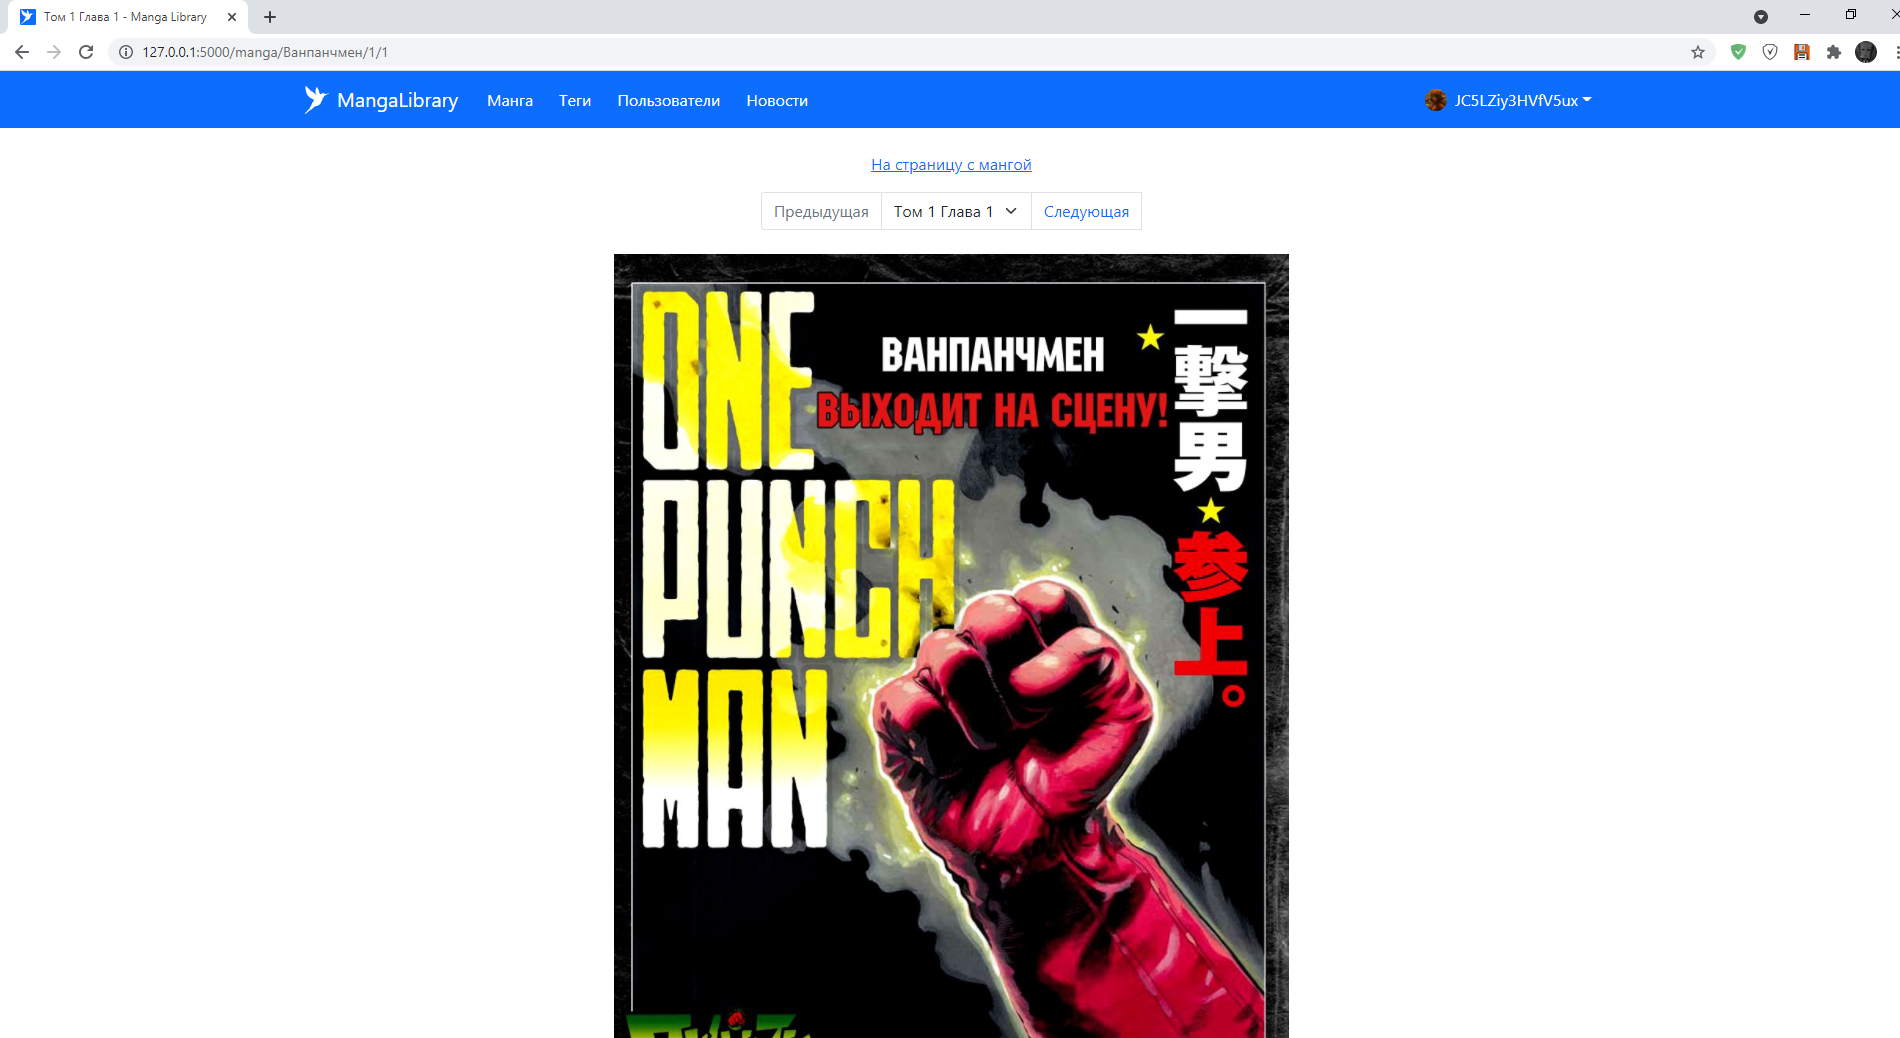
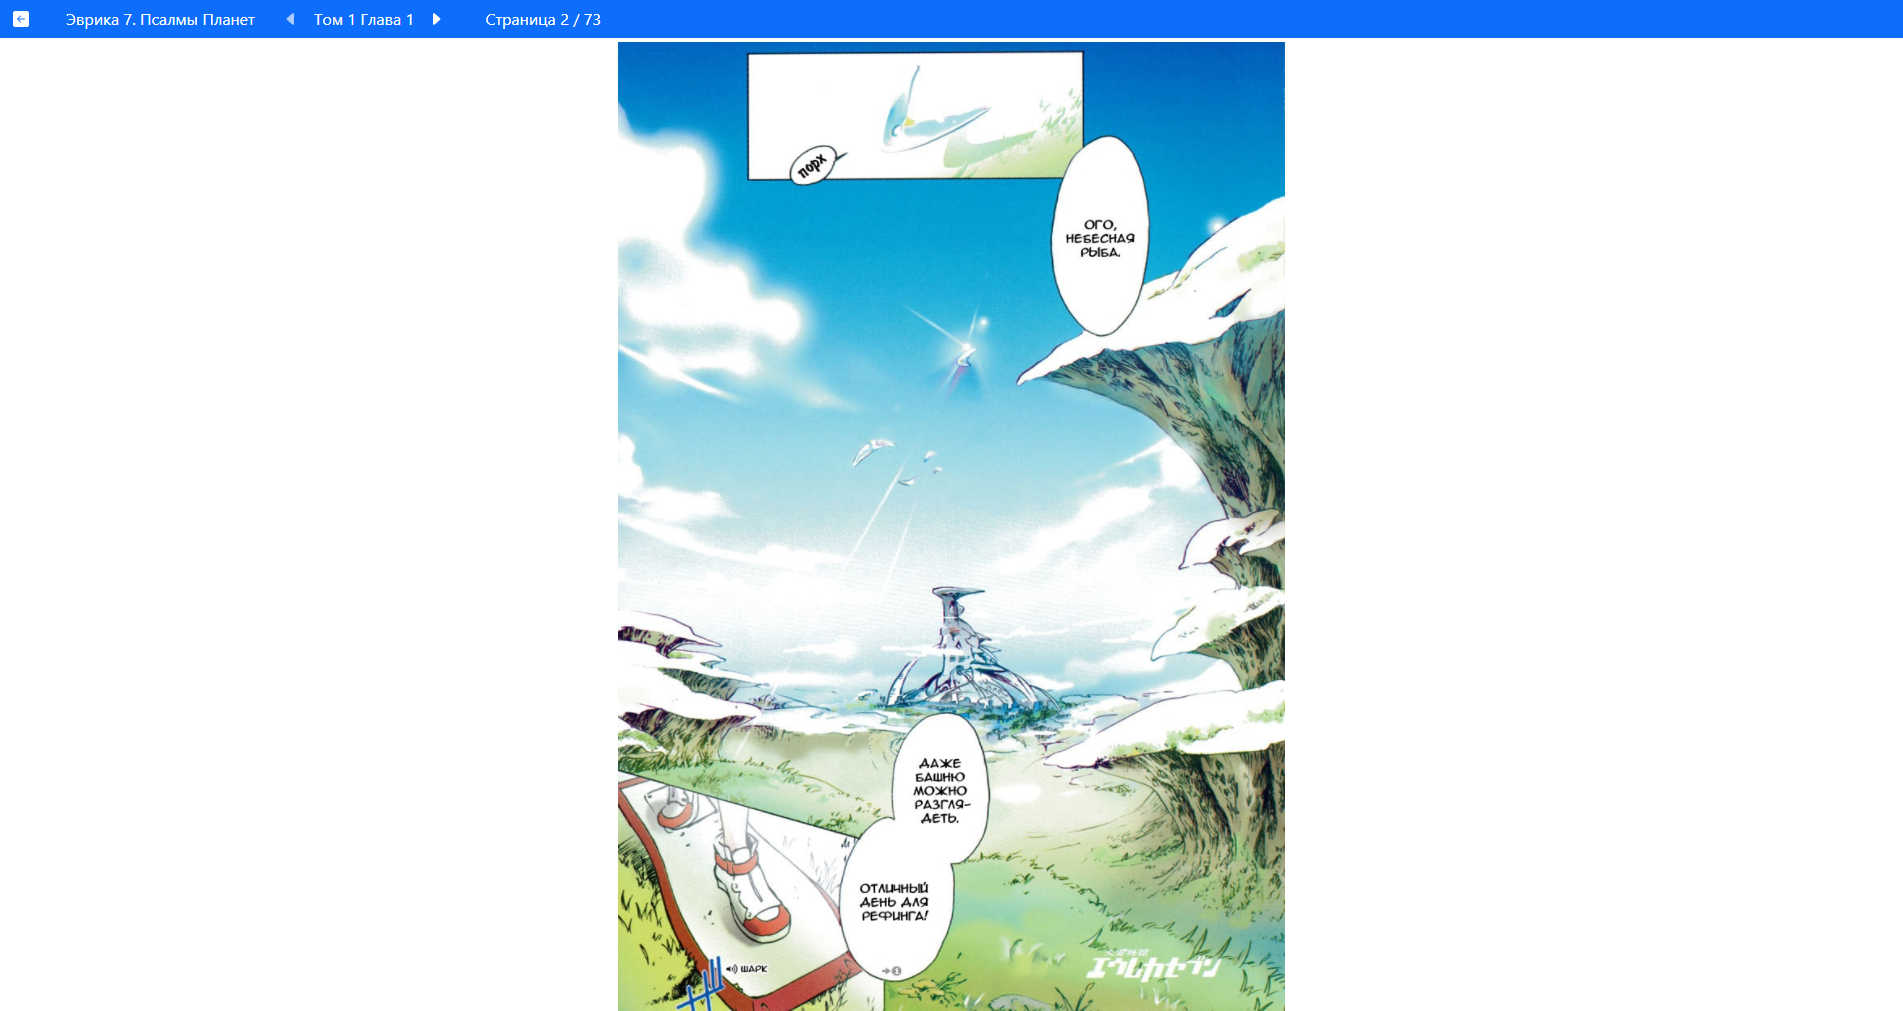
update chapter page

diff --git a/app/manga/templates/chapter.html b/app/manga/templates/chapter.html
@@ -1,63 +1,127 @@
-{% extends "base.html" %}
-{% import "_macros.html" as macros %}
+{% extends "bootstrap/base.html" %}
 
-{% block page_content %}
-
-{% set item = pagination.items[0] %}
-{% set chapters = manga.chapter.all() %}
-
-<div class="text-center">
-  <a href="{{ url_for('manga.index', title = manga.title) }}">На страницу с мангой</a>
-</div>
-
-<div class="d-flex my-2 justify-content-center">
-  <ul class="pagination justify-content-center mt-2">
-    <li {% if not pagination.has_prev %} class="page-item disabled" {% endif %}>
-        <a class="page-link" href="{% if pagination.has_prev %}{% set prev = pagination.prev().items[0]  %}{{ url_for('manga.chapter', title = manga.title, volume = prev.volume, chapter = prev.chapter) }}{% else %}#{% endif %}">
-            Предыдущая
-        </a>
-    </li>
-    <select class="select form-select" onchange="location = this.value;" aria-label="Default select example">
-      {% for chapter in chapters %}
-        <option value="{{ url_for('manga.chapter', title = manga.title, volume = chapter.volume, chapter = chapter.chapter) }}" {% if item.volume == chapter.volume and item.chapter == chapter.chapter  %} selected {% endif %}>Том {{ chapter.volume }} Глава {{ chapter.chapter }} {{ chapter.title}}</option>
-      {% endfor %}
-    </select>
-    <li {% if not pagination.has_next %} class="page-item disabled" {% endif %}>
-      <a class="page-link" href="{% if pagination.has_next %}{% set next = pagination.next().items[0]  %}{{ url_for('manga.chapter', title = manga.title, volume = next.volume, chapter = next.chapter) }}{% else %}#{% endif %}">
-          Следующая
-      </a>
-    </li>
-  </ul>
-</div>
-
-{% for image in item.image_url() %}
-<div class="text-center">
-      <img class="page-img" src="{{ image }}" alt="...">
-</div>
-{% endfor %}
-
-<div class="d-flex my-2 justify-content-center">
-  <ul class="pagination justify-content-center mt-4">
-    <li {% if not pagination.has_prev %} class="page-item disabled" {% endif %}>
-        <a class="page-link" href="{% if pagination.has_prev %}{% set prev = pagination.prev().items[0]  %}{{ url_for('manga.chapter', title = manga.title, volume = prev.volume, chapter = prev.chapter) }}{% else %}#{% endif %}">
-            Предыдущая
-        </a>
-    </li>
-    <select class="select form-select" onchange="location = this.value;" aria-label="Default select example">
-      {% for chapter in chapters %}
-        <option value="{{ url_for('manga.chapter', title = manga.title, volume = chapter.volume, chapter = chapter.chapter) }}" {% if item.volume == chapter.volume and item.chapter == chapter.chapter  %} selected {% endif %}>Том {{ chapter.volume }} Глава {{ chapter.chapter }} {{ chapter.title}}</option>
-      {% endfor %}
-    </select>
-    <li {% if not pagination.has_next %} class="page-item disabled" {% endif %}>
-      <a class="page-link" href="{% if pagination.has_next %}{% set next = pagination.next().items[0]  %}{{ url_for('manga.chapter', title = manga.title, volume = next.volume, chapter = next.chapter) }}{% else %}#{% endif %}">
-          Следующая
-      </a>
-    </li>
-  </ul>
-</div>
-
-<div class="text-center">
-      <a href="{{ url_for('manga.index', title = manga.title) }}">На страницу с мангой</a>
-</div>
-
+{% block styles %}
+  <link rel="icon" href="{{ url_for('static', filename='img/favicon.ico') }}" type="image/x-icon">
+  <link href="{{ url_for('static',filename='css/bootstrap.css') }}" rel="stylesheet">
+  <link href="{{ url_for('static',filename='css/main.css') }}" rel="stylesheet">
 {% endblock %}
+
+{% block title %}
+  {% if title %}
+    {{ title }} - Manga Library
+  {% else %}
+    Manga Library
+  {% endif %}
+{% endblock %}
+
+{% block navbar %}
+<nav class="navbar bg-primary py-0 navbar-expand-md navbar-dark">
+  <!-- return to manga page -->
+  <a class="btn btn-primary d-flex align-self-stretch align-items-center rounded-0" href="{{ url_for('manga.index', title = manga.title) }}">
+    <svg xmlns="http://www.w3.org/2000/svg" width="16" height="16" fill="currentColor" class="bi bi-arrow-left-square-fill" viewBox="0 0 16 16">
+      <path d="M16 14a2 2 0 0 1-2 2H2a2 2 0 0 1-2-2V2a2 2 0 0 1 2-2h12a2 2 0 0 1 2 2v12zm-4.5-6.5H5.707l2.147-2.146a.5.5 0 1 0-.708-.708l-3 3a.5.5 0 0 0 0 .708l3 3a.5.5 0 0 0 .708-.708L5.707 8.5H11.5a.5.5 0 0 0 0-1z"/>
+    </svg>
+  </a>
+  <div class="text-white bg-primary mx-4">
+    {{manga.title}}
+  </div>
+  <!-- go to the prev chapter -->
+  <a class="btn btn-primary d-flex align-self-stretch align-items-center px-1 rounded-0 {% if not pagination_chapters.has_prev %} disabled {% endif %}" 
+    {% if pagination_chapters.has_prev %}
+      href="{{ url_for('manga.chapter', title = manga.title, volume = pagination_chapters.prev().items[0].volume, chapter = pagination_chapters.prev().items[0].chapter, page=pagination_chapters.prev().items[0].image.count()) }}"
+    {% endif %}
+  >
+    <svg xmlns="http://www.w3.org/2000/svg" width="16" height="16" fill="currentColor" class="bi bi-caret-left-fill" viewBox="0 0 16 16">
+      <path d="m3.86 8.753 5.482 4.796c.646.566 1.658.106 1.658-.753V3.204a1 1 0 0 0-1.659-.753l-5.48 4.796a1 1 0 0 0 0 1.506z"/>
+    </svg>
+  </a>
+  <!-- selecting a chapter -->
+  <select class="w-auto btn form-control btn-primary px-1 rounded-0" onchange="location = this.value;" aria-label="Default select example">
+    {% for chapter in chapters %}
+      <option class="bg-white text-dark" value="{{ url_for('manga.chapter', title = manga.title, volume = chapter.volume, chapter = chapter.chapter) }}" 
+        {% if current_chapter.volume == chapter.volume and current_chapter.chapter == chapter.chapter  %} 
+          selected 
+        {% endif %}
+      >
+      Том {{ chapter.volume }} Глава {{ chapter.chapter }}
+      </option>
+    {% endfor %}
+  </select>
+  <!-- go to the next chapter -->
+  <a class="btn btn-primary d-flex align-self-stretch align-items-center px-1 rounded-0 {% if not pagination_chapters.has_next %} disabled {% endif %}" 
+    {% if pagination_chapters.has_next %}
+      href="{{ url_for('manga.chapter', title = manga.title, volume = pagination_chapters.next().items[0].volume, chapter = pagination_chapters.next().items[0].chapter) }}"
+    {% endif %}
+  >
+    <svg xmlns="http://www.w3.org/2000/svg" width="16" height="16" fill="currentColor" class="bi bi-caret-right-fill" viewBox="0 0 16 16">
+      <path d="m12.14 8.753-5.482 4.796c-.646.566-1.658.106-1.658-.753V3.204a1 1 0 0 1 1.659-.753l5.48 4.796a1 1 0 0 1 0 1.506z"/>
+    </svg>
+  </a>
+  <!-- selecting a page -->
+  <select class="form-control btn-primary w-auto border-0 rounded-0 ms-4" onchange="location = this.value;" aria-label="Default select example">
+    {% for p in range(1, pagination_images.total + 1)%}
+      <option class="bg-white text-dark" value="{{ url_for('manga.chapter', title = manga.title, volume = current_chapter.volume, chapter = current_chapter.chapter, page=p) }}" 
+        {% if p == pagination_images.page  %} 
+          selected 
+        {% endif %}
+      >
+      Страница {{p}} / {{ pagination_images.total }}
+      </option>
+    {% endfor %}
+  </select>
+</nav>
+{% endblock %}
+
+{% block content %}
+<div class="d-flex position-absolute h-100 w-100">
+  <!-- go to the prev page -->
+  <a class="w-100 rounded-0 {% if not pagination_images.has_prev and not pagination_chapters.has_prev %}btn disabled {% endif %}" 
+    {% if pagination_images.has_prev %}
+      href="{{ url_for('manga.chapter', title = manga.title, volume = current_chapter.volume, chapter = current_chapter.chapter, page=pagination_images.prev_num) }}"
+    {% elif not pagination_images.has_prev and pagination_chapters.has_prev %}
+      href="{{ url_for('manga.chapter', title = manga.title, volume = pagination_chapters.prev().items[0].volume, chapter = pagination_chapters.prev().items[0].chapter, page=pagination_chapters.prev().items[0].image.count()) }}"
+    {% endif %}
+  >
+  </a>
+  <!-- go to the next page -->
+  <a class="w-100 rounded-0 {% if not pagination_images.has_next and not pagination_chapters.has_next %}btn disabled {% endif %}" 
+    {% if pagination_images.has_next %}
+      href="{{ url_for('manga.chapter', title = manga.title, volume = current_chapter.volume, chapter = current_chapter.chapter, page=pagination_images.next_num) }}"
+    {% elif not pagination_images.has_next and pagination_chapters.has_next %}
+      href="{{ url_for('manga.chapter', title = manga.title, volume = pagination_chapters.next().items[0].volume, chapter = pagination_chapters.next().items[0].chapter) }}"
+    {% endif %}
+  >
+  </a>
+</div>
+
+<!-- image on page -->
+<div class="d-flex justify-content-center mt-1">
+      <img class="vh-100" src="{{ pagination_images.items[0].image_url()}}" alt="...">
+</div>
+{% endblock %}
+
+{% block scripts %}
+{{ super() }}
+<script>
+  document.addEventListener("keydown", function(event) {
+    switch(event.key) {
+    case "ArrowLeft":
+      // go to the prev page
+      {% if pagination_images.has_prev %}
+        location="{{ url_for('manga.chapter', title = manga.title, volume = current_chapter.volume, chapter = current_chapter.chapter, page=pagination_images.prev_num) }}"
+      {% elif not pagination_images.has_prev and pagination_chapters.has_prev %}
+        location="{{ url_for('manga.chapter', title = manga.title, volume = pagination_chapters.prev().items[0].volume, chapter = pagination_chapters.prev().items[0].chapter, page=pagination_chapters.prev().items[0].image.count()) }}"
+      {% endif %}
+      break;
+    case "ArrowRight":
+      // go to the next page
+      {% if pagination_images.has_next %}
+        location ="{{ url_for('manga.chapter', title = manga.title, volume = current_chapter.volume, chapter = current_chapter.chapter, page=pagination_images.next_num) }}"
+      {% elif not pagination_images.has_next and pagination_chapters.has_next %}
+        location ="{{ url_for('manga.chapter', title = manga.title, volume = pagination_chapters.next().items[0].volume, chapter = pagination_chapters.next().items[0].chapter) }}"
+      {% endif %}
+      break;
+    }
+  })
+</script>
+{% endblock scripts %}

diff --git a/app/manga/views.py b/app/manga/views.py
@@ -134,17 +134,27 @@ def chapter(title, volume, chapter):
     manga = Manga.query.filter_by(title=title).first_or_404()
     
     current_chapter = manga.chapter.filter_by(
-            volume=volume,
-            chapter=chapter
-        ).first_or_404()
+        volume=volume,
+        chapter=chapter
+    ).first_or_404()
+    
+    pagination_images = current_chapter.image.paginate(
+        page=request.args.get('page', 0, type=int), 
+        per_page=1, 
+        error_out=False
+    )
 
     chapters = manga.chapter.all()
-    page = chapters.index(current_chapter) + 1
-    pagination = manga.chapter.paginate(
-        page,  per_page=1,
-        error_out=False)
-        
-    return render_template("chapter.html", pagination=pagination, manga=manga, title="Том " + current_chapter.volume + " Глава " + current_chapter.chapter)
+    pagination_chapters = manga.chapter.paginate(
+        page=chapters.index(current_chapter) + 1,  
+        per_page=1,
+        error_out=False
+    )
+    
+    title = f"Том {current_chapter.volume} Глава {current_chapter.chapter}"
+
+    return render_template("chapter.html", pagination_chapters=pagination_chapters, current_chapter=current_chapter, chapters=chapters, \
+                            pagination_images=pagination_images, manga=manga, title=title)
 
 @manga.route('/tag/<name>')
 def tag(name):

diff --git a/app/models.py b/app/models.py
@@ -413,6 +413,11 @@ class Images(db.Model):
     news_id = db.Column(db.Integer, db.ForeignKey('news.id'))
     chapter_id = db.Column(db.Integer, db.ForeignKey('chapter.id'))
 
+    def image_url(self, _external=False):
+        if self.image:
+            return url_for('_uploads.uploaded_file', setname=manga_upload.name, filename=self.image,
+                               _external=_external)
+
 class AnonymousUser(AnonymousUserMixin):
     def can(self, permissions):
         return False
